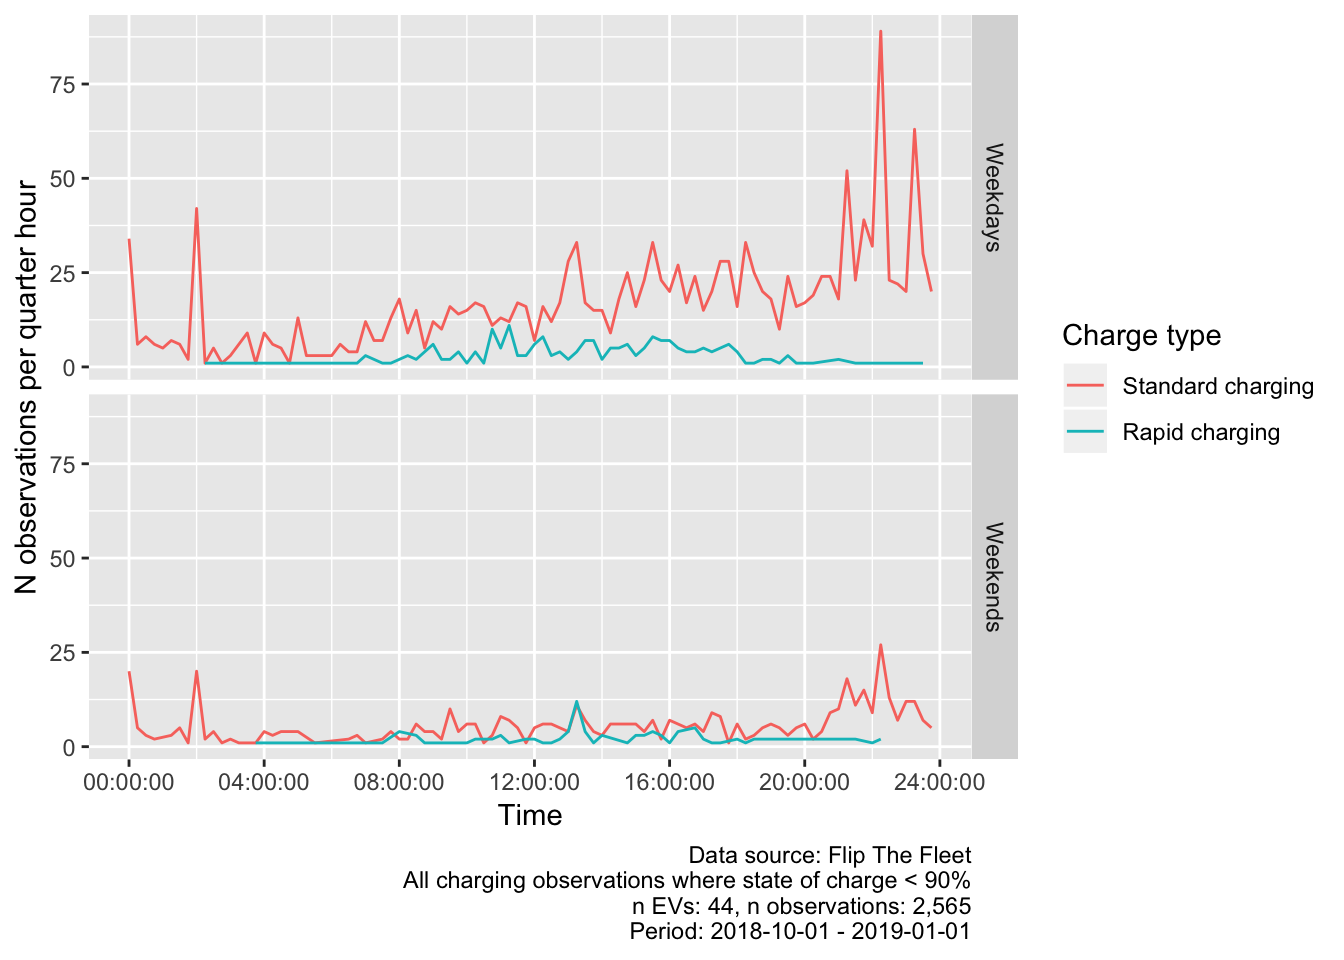
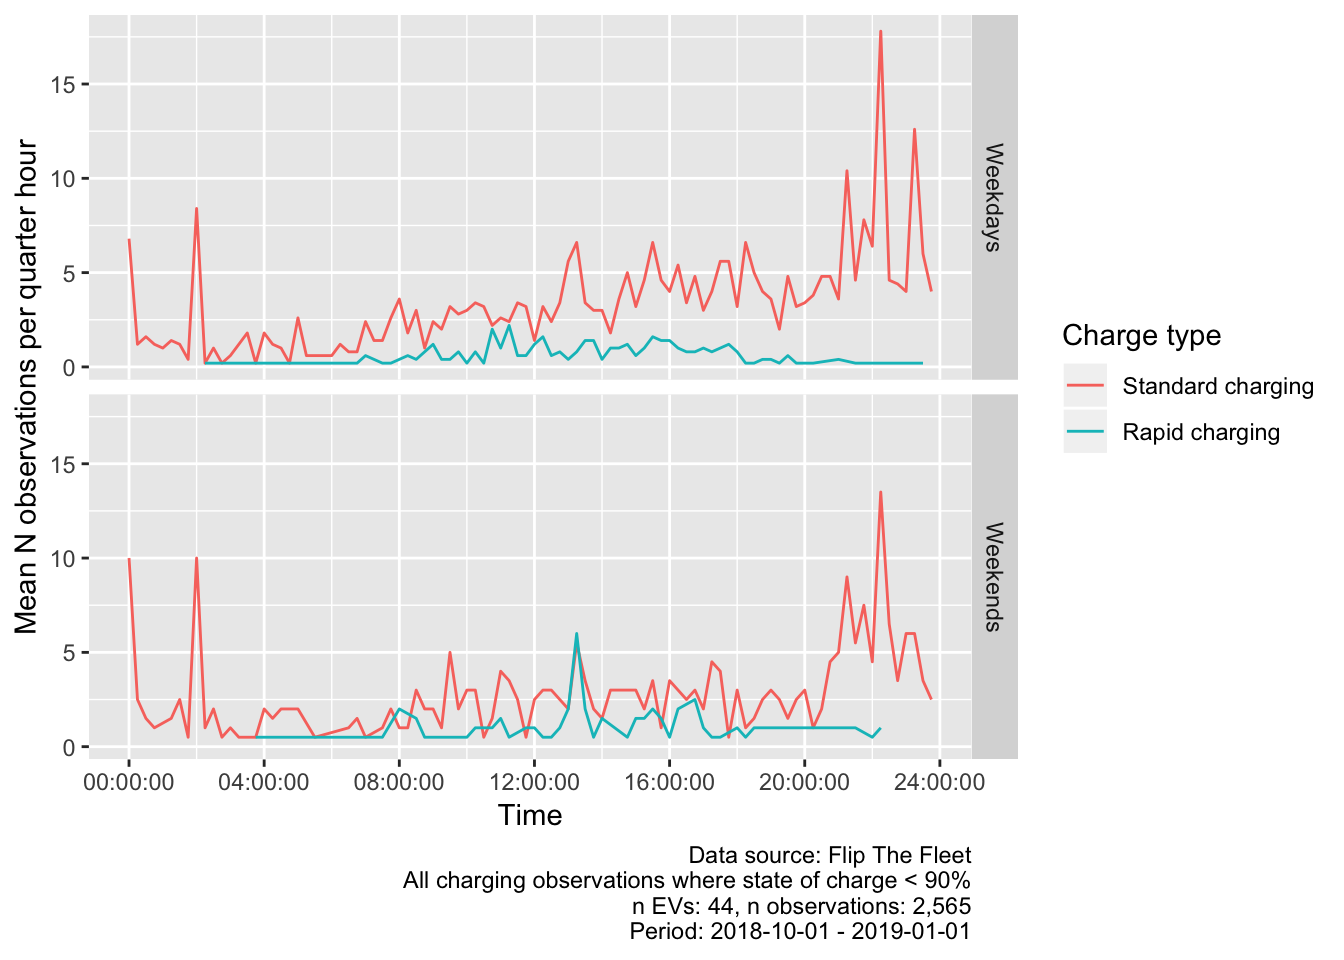
updated weekday plots where counts are used to control for the number of weekdays (5) vs weekend days (2) that were used to sum the counts. Result = correct visual ratio for weekdays vs weekends

Changed region(s): [[0.0938, 0.5938, 0.6875, 0.7812], [0.0, 0.1562, 0.0625, 0.6562]]

diff --git a/reports/fullReport/EVBB_report_EVBB_processed_all_v2.0_20190604.html b/reports/fullReport/EVBB_report_EVBB_processed_all_v2.0_20190604.html
@@ -307,7 +307,7 @@ div.tocify {
 <h1 class="title toc-ignore">Analysis of electric vehicle usage patterns in New Zealand</h1>
 <h3 class="subtitle">Statistical report using Flip The Fleet data</h3>
 <h4 class="author">Rafferty Parker and Ben Anderson (<a href="mailto:ben.anderson@otago.ac.nz" class="email">ben.anderson@otago.ac.nz</a>), <a href="https://www.otago.ac.nz/centre-sustainability/">Centre for Sustainability</a>, University of Otago; Daniel Myall (Flip The Fleet, <a href="mailto:daniel@zeno.nz" class="email">daniel@zeno.nz</a>)</h4>
-<h4 class="date">Last run at: 2019-08-14 15:59:15</h4>
+<h4 class="date">Last run at: 2019-08-20 17:06:17</h4>
 
 </div>
 
@@ -2058,7 +2058,7 @@ Rapid charging
 Figure 4.1: Density plot of charging start times during weekdays
 </p>
 </div>
-<p>Figure <a href="#fig:chargeTimeTypes">4.2</a> extends this analysis by showing charging and non-charging observations at different times of day by weekday vs weekends using a density plot to show releative distributions over time within each type. The plot clearly shows non-charging during day-time use and also shows a bi-model distribution for rapid charging (non-corrected categorisation). Standard charging also shows a bi-modal distribution with a peak around 22:00 on weekdays and another at 01:00 presumably indicating the use of timed or ‘smart’ charging or trickle events.</p>
+<p>Figure <a href="#fig:chargeTimeTypes">4.2</a> extends this analysis by showing charging and non-charging observations at different times of day by weekday vs weekends using a density plot to show relative distributions over time within each type. The plot clearly shows non-charging during day-time use and also shows a bi-model distribution for rapid charging (non-corrected categorisation). Standard charging also shows a bi-modal distribution with a peak around 22:00 on weekdays and another at 01:00 presumably indicating the use of timed or ‘smart’ charging or trickle events.</p>
 <div class="figure"><span id="fig:chargeTimeTypes"></span>
 <img src="EVBB_report_EVBB_processed_all_v2.0_20190604_files/figure-html/chargeTimeTypes-1.png" alt="Density plot of charging start times during weekdays" width="672" />
 <p class="caption">
@@ -2375,16 +2375,16 @@ Figure 4.15: Mean state of charge at beginning of charge sequence by time of day
 ##  n obs: 1882040 
 ##  n variables: 7 
 ## 
-## ── Variable type:character ────────────────────────────────────────────────────────────────────────────────────────────────────
+## ── Variable type:character ────────────────────────────────────────────────────────────────────
 ##  variable missing complete       n min max empty n_unique
 ##      dvID       0  1882040 1882040   9  10     0       52
 ##        id       0  1882040 1882040  32  32     0       52
 ## 
-## ── Variable type:difftime ─────────────────────────────────────────────────────────────────────────────────────────────────────
+## ── Variable type:difftime ─────────────────────────────────────────────────────────────────────
 ##  variable missing complete       n    min        max     median n_unique
 ##   timeChr       0  1882040 1882040 0 secs 86399 secs 44877 secs    86400
 ## 
-## ── Variable type:numeric ──────────────────────────────────────────────────────────────────────────────────────────────────────
+## ── Variable type:numeric ──────────────────────────────────────────────────────────────────────
 ##                 variable missing complete       n    mean      sd     p0
 ##          charge_power_kw       0  1882040 1882040    1.59   63.73      0
 ##              odometer_km 1255614   626426 1882040 7789.97 8268.44 -62920
@@ -2394,7 +2394,7 @@ Figure 4.15: Mean state of charge at beginning of charge sequence by time of day
 ##  2166.25 5309    11154    73607    ▁▁▁▇▇▁▁▁
 ##    56.31   70.41    83.05  1677.72 ▇▁▁▁▁▁▁▁
 ## 
-## ── Variable type:POSIXct ──────────────────────────────────────────────────────────────────────────────────────────────────────
+## ── Variable type:POSIXct ──────────────────────────────────────────────────────────────────────
 ##    variable missing complete       n        min        max     median
 ##  r_dateTime       0  1882040 1882040 2018-04-05 2019-03-01 2018-11-25
 ##  n_unique
@@ -2408,7 +2408,7 @@ Figure 4.15: Mean state of charge at beginning of charge sequence by time of day
 ##  n obs: 939874 
 ##  n variables: 20 
 ## 
-## ── Variable type:character ────────────────────────────────────────────────────────────────────────────────────────────────────
+## ── Variable type:character ────────────────────────────────────────────────────────────────────
 ##    variable missing complete      n min max empty n_unique
 ##  chargeFlag       2   939872 939874  17  25     0        5
 ##        dvID       0   939874 939874   9  10     0       45
@@ -2416,13 +2416,13 @@ Figure 4.15: Mean state of charge at beginning of charge sequence by time of day
 ##  peakPeriod       0   939874 939874   8  12     0        3
 ##    weekdays       0   939874 939874   8   8     0        2
 ## 
-## ── Variable type:Date ─────────────────────────────────────────────────────────────────────────────────────────────────────────
+## ── Variable type:Date ─────────────────────────────────────────────────────────────────────────
 ##  variable missing complete      n        min        max     median
 ##      date       0   939874 939874 2018-10-01 2019-01-01 2018-11-16
 ##  n_unique
 ##        93
 ## 
-## ── Variable type:difftime ─────────────────────────────────────────────────────────────────────────────────────────────────────
+## ── Variable type:difftime ─────────────────────────────────────────────────────────────────────
 ##        variable missing complete      n    min          max     median
 ##             hms       0   939874 939874 0 secs   86399 secs 43882 secs
 ##           qHour       0   939874 939874 0 secs   85500 secs 43200 secs
@@ -2436,7 +2436,7 @@ Figure 4.15: Mean state of charge at beginning of charge sequence by time of day
 ##     86391
 ##     86391
 ## 
-## ── Variable type:factor ───────────────────────────────────────────────────────────────────────────────────────────────────────
+## ── Variable type:factor ───────────────────────────────────────────────────────────────────────
 ##     variable missing complete      n n_unique
 ##   chargeType       0   939874 939874        3
 ##  day_of_week       0   939874 939874        7
@@ -2444,7 +2444,7 @@ Figure 4.15: Mean state of charge at beginning of charge sequence by time of day
 ##          Sta: 627490, Not: 306871, Rap: 5513, NA: 0   FALSE
 ##  Fri: 152881, Thu: 146464, Wed: 146461, Tue: 136529    TRUE
 ## 
-## ── Variable type:numeric ──────────────────────────────────────────────────────────────────────────────────────────────────────
+## ── Variable type:numeric ──────────────────────────────────────────────────────────────────────
 ##         variable missing complete      n    mean      sd     p0     p25
 ##  charge_power_kw       0   939874 939874    1.57    2.76      0    0   
 ##            month       0   939874 939874   10.96    0.98      1   10   
@@ -2460,7 +2460,7 @@ Figure 4.15: Mean state of charge at beginning of charge sequence by time of day
 ##    70.28   82.92    98.1  ▁▁▂▃▆▇▇▇
 ##     0       0       70.16 ▇▁▁▁▁▁▁▁
 ## 
-## ── Variable type:POSIXct ──────────────────────────────────────────────────────────────────────────────────────────────────────
+## ── Variable type:POSIXct ──────────────────────────────────────────────────────────────────────
 ##    variable missing complete      n        min        max     median
 ##  r_dateTime       0   939874 939874 2018-10-01 2019-01-01 2018-11-16
 ##  n_unique
@@ -2471,7 +2471,7 @@ Figure 4.15: Mean state of charge at beginning of charge sequence by time of day
 ##  n obs: 2565 
 ##  n variables: 24 
 ## 
-## ── Variable type:character ────────────────────────────────────────────────────────────────────────────────────────────────────
+## ── Variable type:character ────────────────────────────────────────────────────────────────────
 ##         variable missing complete    n min max empty n_unique
 ##       chargeFlag       0     2565 2565  25  25     0        1
 ##  chargeTypeError       0     2565 2565  31  37     0        4
@@ -2480,11 +2480,11 @@ Figure 4.15: Mean state of charge at beginning of charge sequence by time of day
 ##       peakPeriod       0     2565 2565   8  12     0        3
 ##         weekdays       0     2565 2565   8   8     0        2
 ## 
-## ── Variable type:Date ─────────────────────────────────────────────────────────────────────────────────────────────────────────
+## ── Variable type:Date ─────────────────────────────────────────────────────────────────────────
 ##  variable missing complete    n        min        max     median n_unique
 ##      date       0     2565 2565 2018-10-01 2019-01-01 2018-11-16       93
 ## 
-## ── Variable type:difftime ─────────────────────────────────────────────────────────────────────────────────────────────────────
+## ── Variable type:difftime ─────────────────────────────────────────────────────────────────────
 ##        variable missing complete    n                   min
 ##         endTime       0     2565 2565 31 secs              
 ##             hms       0     2565 2565 91 secs              
@@ -2502,7 +2502,7 @@ Figure 4.15: Mean state of charge at beginning of charge sequence by time of day
 ##   86246 secs        15:43:40               2471
 ##   86246 secs        15:43:40               2471
 ## 
-## ── Variable type:factor ───────────────────────────────────────────────────────────────────────────────────────────────────────
+## ── Variable type:factor ───────────────────────────────────────────────────────────────────────
 ##             variable missing complete    n n_unique
 ##           chargeType       0     2565 2565        2
 ##  chargeTypeCorrected       0     2565 2565        2
@@ -2514,7 +2514,7 @@ Figure 4.15: Mean state of charge at beginning of charge sequence by time of day
 ##  Fri: 416, Thu: 391, Wed: 383, Mon: 378    TRUE
 ##      Sta: 2305, Rap: 260, Not: 0, NA: 0   FALSE
 ## 
-## ── Variable type:numeric ──────────────────────────────────────────────────────────────────────────────────────────────────────
+## ── Variable type:numeric ──────────────────────────────────────────────────────────────────────
 ##         variable missing complete    n    mean      sd        p0     p25
 ##  charge_power_kw       0     2565 2565    6.44   11.75      0.5     1.54
 ##            month       0     2565 2565   10.96    0.96      1      10   
@@ -2528,7 +2528,7 @@ Figure 4.15: Mean state of charge at beginning of charge sequence by time of day
 ##     0       0    37626    ▁▁▇▁▁▁▁▁
 ##    49      61       98.1  ▁▃▆▇▇▃▂▂
 ## 
-## ── Variable type:POSIXct ──────────────────────────────────────────────────────────────────────────────────────────────────────
+## ── Variable type:POSIXct ──────────────────────────────────────────────────────────────────────
 ##    variable missing complete    n        min        max     median
 ##  r_dateTime       0     2565 2565 2018-10-01 2019-01-01 2018-11-16
 ##  n_unique
